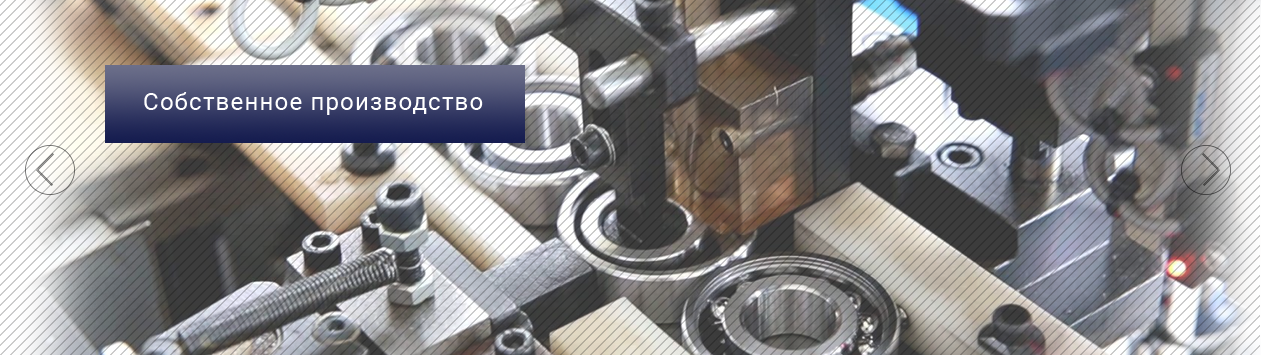
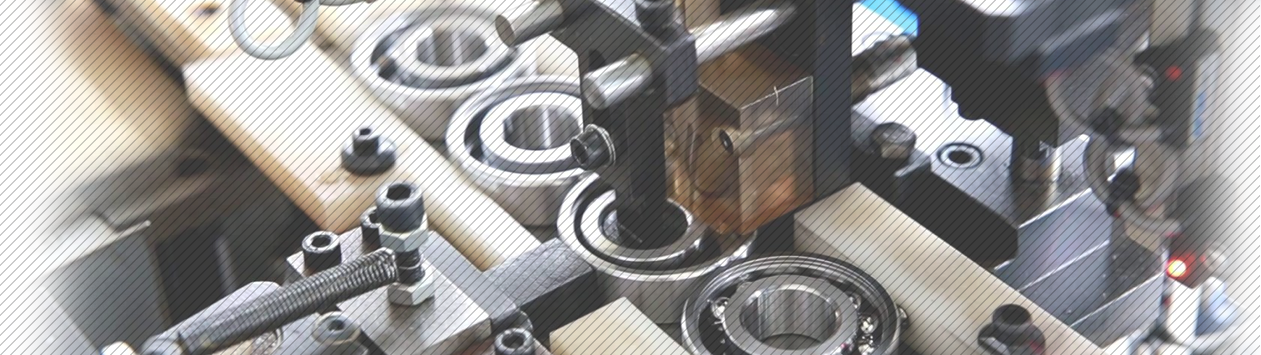
img reset, paths

diff --git a/Gulpfile.js b/Gulpfile.js
@@ -94,7 +94,7 @@ gulp.task('css', function(){
         .pipe(gulpif(environments.dev, remember('styles')))
         .pipe(concat('style.css'))
         .pipe(gulpif(environments.prod, urlAdjuster({
-            replace:  ['/img/','../img/']
+            replace:  ['/img/','./img/']
             // append: '?version=1',
             // prepend: '../path'
         })))

diff --git a/_src/css/common.less b/_src/css/common.less
@@ -24,6 +24,12 @@ table {
 ul {
   list-style: none inside none;
 }
+img{
+  height: auto;
+  /* Make sure images are scaled correctly. */
+  max-width: 100%;
+  /* Adhere to container width. */
+}
 .container {
   max-width: 1260px;
   margin: 0 auto;

diff --git a/_src/css/less/main.less b/_src/css/less/main.less
@@ -1,9 +1,6 @@
 @import "../mixins";
 
 .slider {
-  height: 355px;
-  background: url("/img/slider/1.png") no-repeat center;
-  background-size: cover;
   .media(576px, {
     display: none;
   });
